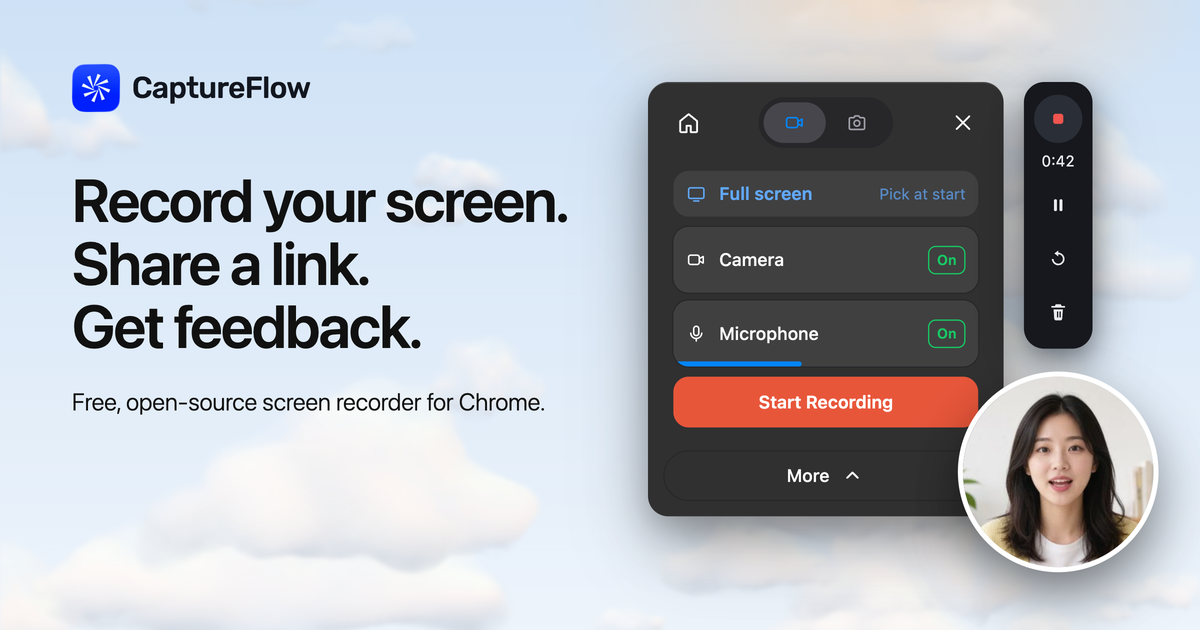
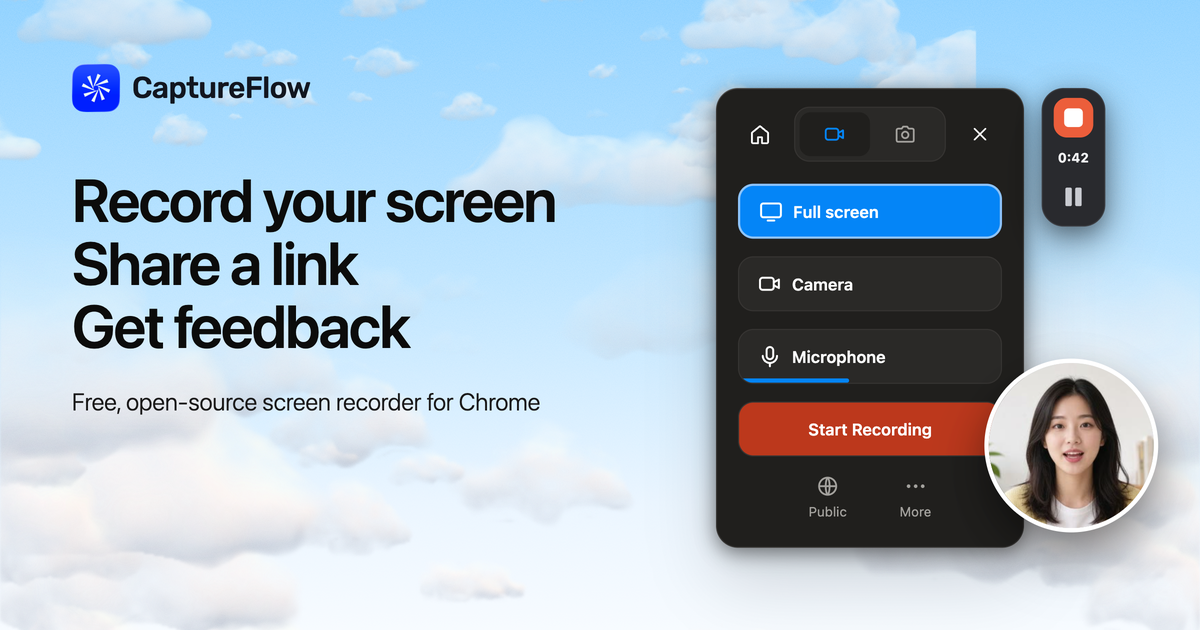
feat(web): redraw the link preview card after the new recorder
The shared-link card still showed the old panel. It now carries the
restyled mockup on the landing's own sky, and a new version query makes
platforms fetch it fresh. The landing bubble gets its ring back.

diff --git a/apps/web/app/layout.tsx b/apps/web/app/layout.tsx
@@ -43,7 +43,7 @@ export const metadata: Metadata = {
     description: SITE_DESCRIPTION,
     images: [
       {
-        url: "/og-image.png?v=2",
+        url: "/og-image.png?v=3",
         width: 1200,
         height: 630,
         alt: "CaptureFlow: record your screen, share a link, get feedback",
@@ -54,7 +54,7 @@ export const metadata: Metadata = {
     card: "summary_large_image",
     title: "CaptureFlow",
     description: SITE_DESCRIPTION,
-    images: ["/og-image.png?v=2"],
+    images: ["/og-image.png?v=3"],
   },
 };
 

diff --git a/apps/web/app/page.tsx b/apps/web/app/page.tsx
@@ -42,14 +42,14 @@ export const metadata: Metadata = {
     title: SITE_TITLE,
     description: SITE_DESCRIPTION,
     images: [
-      { url: "/og-image.png?v=2", width: 1200, height: 630, alt: SITE_TITLE },
+      { url: "/og-image.png?v=3", width: 1200, height: 630, alt: SITE_TITLE },
     ],
   },
   twitter: {
     card: "summary_large_image",
     title: SITE_TITLE,
     description: SITE_DESCRIPTION,
-    images: ["/og-image.png?v=2"],
+    images: ["/og-image.png?v=3"],
   },
 };
 

diff --git a/apps/web/components/marketing/modes-intro.tsx b/apps/web/components/marketing/modes-intro.tsx
@@ -439,7 +439,7 @@ function RecorderMockup() {
         className="absolute rounded-full shadow-[0_28px_56px_rgb(0_0_0/0.165)] dark:shadow-[0_28px_56px_rgb(0_0_0/0.55)]"
         style={{ left: 248, top: 250 }}
       >
-        <Presenter size={150} ring={0} />
+        <Presenter size={150} ring={4} />
       </div>
     </Scaled>
   );
